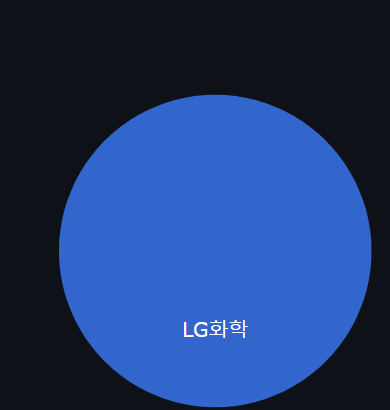
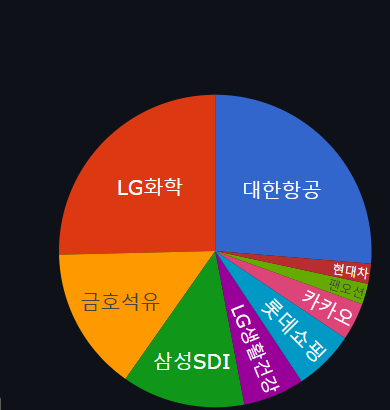
color palette arrangement

diff --git a/interface/main_survey_introduce.py b/interface/main_survey_introduce.py
@@ -51,7 +51,7 @@ st.markdown(font_css, unsafe_allow_html=True)
 
 st.markdown('''
             <div>
-                <h2 style="font-size:40px; text-align:center; font-family: Pretendard;">ESG 선호도 설문</h2>
+                <h2 style="font-size:40px; text-align:center; color:#666666; font-family: Pretendard;">ESG 선호도 설문</h2>
             </div>
             ''',unsafe_allow_html=True)
 _,start_page,_ = st.columns([1,2,1])
@@ -67,6 +67,7 @@ with start_page:
                         div[data-testid="stHeadingWithActionElements"]{
                             font-size: 40px;
                             font-family: Pretendard;
+                            text-color: #555555;
                         }
                         div[data-testid="stApp"]{
                             background-image: linear-gradient(rgb(178,221,247),rgb(231,246,255))
@@ -86,7 +87,7 @@ with start_page:
                             padding: 10px;
                         }
                         button[data-testid="baseButton-secondary"]{
-                            background-color: #e7f6ff;
+                            background-color: #666666;
                             border-radius: 10px;
                             box-shadow: 0 0 10px rgba(0, 0, 0, 0.1);
                         }
@@ -98,13 +99,15 @@ with start_page:
                             max-width: 800px;
                             margin: auto;
                             padding: 20px;
-                            background-color: #e7f6ff;
+                            background-color: #888888;
                             border-radius: 10px;
                             box-shadow: 0 0 10px rgba(0, 0, 0, 0.1);
                         }
                         h1 {
                             text-align: center;
                             font-family: Pretendard;
+                        h2 {
+                            text-color: 999999;
                         }
                         p {
                             font-size: 18px;
@@ -113,7 +116,7 @@ with start_page:
                         .btn-start {
                             display: block;
                             width: 100%;
-                            background-color: #4CAF50;
+                            background-color: #222222;
                             color: white;
                             padding: 15px;
                             text-align: center;

diff --git a/interface/pages/survey_page.py b/interface/pages/survey_page.py
@@ -94,8 +94,8 @@ with st.sidebar:
     st.page_link('pages/recent_news.py', label='최신 뉴스',icon="🆕")
     st.page_link('pages/esg_introduce.py', label='ESG 소개 / 투자 방법', icon="🧩")
     
-st.write('<style>div.row-widget.stRadio > div{flex-direction:row;justify-content: center; align-items: center; } </style>', unsafe_allow_html=True)
-st.write('<style>div.st-bf{flex-direction:column;} div.st-ag{font-weight:bold;padding-left:2px;}</style>', unsafe_allow_html=True)
+#st.markdown('<style>div.row-widget.stRadio > div{display: flex; justify-content: center; color: #55FF00; align-items: center;} </style>', unsafe_allow_html=True)
+st.markdown('<style>div.st-bf{flex-direction:column;} div.st-ag{font-weight:bold;padding-right:2px;}</style>', unsafe_allow_html=True)
 values = {'msci': 0, 'iss': 0, 'sustain': 0, 'sandp': 0, 'esg1': 0}
 
 def evaluate_care_level(response):
@@ -117,6 +117,7 @@ with st.form('usersurvey',clear_on_submit=False):
                     <meta name="viewport" content="width=device-width, initial-scale=1.0">
                     <link href="https://cdn.jsdelivr.net/gh/orioncactus/pretendard@v1.3.9/dist/web/static/pretendard.min.css" rel="stylesheet">
                     <style>
+                        div.row-widget.stRadio > div{display: flex; justify-content: center; background-color: #00FF00; align-items: center;}
                         div[data-testid="stForm"]{
                             background-color:#555555;
                             }
@@ -148,9 +149,19 @@ with st.form('usersurvey',clear_on_submit=False):
                         p{
                             font-family: Pretendard;
                         }
+                        
                     </style>
                 </head>
                 ''',unsafe_allow_html=True)
+
+    st.markdown(
+        """
+        <style>
+        
+        </style>
+        """,
+        unsafe_allow_html=True
+    )
     
     st.markdown('<div class="question" style="font-size:20px;text-align:center;font-family: Pretendard;font-weight: bold;">1. 투자할 때 기업이 탄소 배출이나 오염물질 관리 등 자연을 보호하는 데 신경 쓰는지 고려하시나요?</div>', unsafe_allow_html=True)
     q1 = st.radio('', options=('신경 쓴다.','보통이다.','신경 쓰지 않는다.'))

diff --git a/interface/pages/survey_result.py b/interface/pages/survey_result.py
@@ -359,7 +359,7 @@ header = f"""
                 font-size: 30px;
                 word-spacing: 3px;
                 font-weight: bold;
-                color: #666666;
+                color: #999999;
                 padding: 10px;
                 font-family: Pretendard;
             }}
@@ -878,7 +878,7 @@ with col3:
             </style>
         </head>
         <body>
-            <h1 style="color: #999999;">{user_name}을 위한 ESG 중심 포트폴리오 제안서</h1>
+            <h1 style="color: #666666;">{user_name}을 위한 ESG 중심 포트폴리오 제안서</h1>
             <p>다음은 {user_name}의 ESG 선호도를 바탕으로 최적화된 포트폴리오 비중입니다.</p>
             <div class="block">
                 <div class="box">
